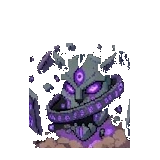
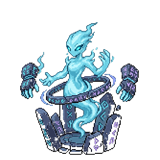
feat(pokemon): [AGY-033] redesign Runolithe and Ragnarune with Direction A (Spectral Stone Guardian & Celestial Titan)

diff --git a/CHANGELOG.md b/CHANGELOG.md
@@ -16,6 +16,31 @@ En cas de bug plus tard, ce journal permet d'identifier immédiatement **quel fi
 
 ## 📅 Historique des Ajouts & Modifications
 
+### `[AGY-033]` — 2026-10-16 — Refonte Visuelle Complète des Évolutions de Veilliris (Direction A : Gardien Spectral Runique)
+- **Auteur** : `Antigravity`
+- **Catégorie** : Sprites Pokémon Combat 5G (`Graphics/Pokemon/`)
+- **Fichiers modifiés / remplacés** :
+  - **Runolithe (`[RUNOLITHE]`, Stade 2 — Psy / Sol)** :
+    - Remplacement de l'ancien modèle de roche compacte par le design **Direction A** : Esprit spectral cyan élancé et gracieux émergeant d'un cercle de mégalithes, avec anneau d'orbes/runes orbitales et gantelets de pierre taillée.
+    - `Graphics/Pokemon/Front/RUNOLITHE.png` & `Front shiny/RUNOLITHE.png` (`160×160 px`).
+    - `Graphics/Pokemon/Back/RUNOLITHE.png` & `Back shiny/RUNOLITHE.png` (`160×160 px`, perspective dorsale 180°).
+    - `Graphics/Pokemon/Icons/RUNOLITHE.png` & `Icons shiny/RUNOLITHE.png` (`128×64 px`).
+    - `Graphics/Pokemon/Footprints/RUNOLITHE.png` (`16×16 px`).
+  - **Ragnarune (`[RAGNARUNE]`, Stade 3 — Psy / Sol)** :
+    - Remplacement du golem massif par le design **Direction A** : Titan céleste/spectral de Freljord aux immenses ailes de flammes cyan, plastron d'obsidienne gravée, couronne royale et gantelets mégalithiques flottants crépitants d'aura magique.
+    - `Graphics/Pokemon/Front/RAGNARUNE.png` & `Front shiny/RAGNARUNE.png` (`160×160 px`).
+    - `Graphics/Pokemon/Back/RAGNARUNE.png` & `Back shiny/RAGNARUNE.png` (`160×160 px`, perspective dorsale 180°).
+    - `Graphics/Pokemon/Icons/RAGNARUNE.png` & `Icons shiny/RAGNARUNE.png` (`128×64 px`).
+    - `Graphics/Pokemon/Footprints/RAGNARUNE.png` (`16×16 px`).
+- **Aperçu de validation (Dossier d'artefacts)** :
+  - `apercu_final_direction_a_integree.png` (Tableau 12 sprites de la lignée complète Veilliris -> Runolithe -> Ragnarune sur damier transparent).
+- **Comment tester en jeu** :
+  - Lancer en Debug (`F9`) -> Menu Pokémon -> Donner Pokémon (`RUNOLITHE`, `RAGNARUNE`) pour observer les nouveaux sprites de face, de dos et shiny en combat.
+- **Comment désactiver en cas de bug** :
+  - `git revert HEAD`
+
+---
+
 ### `[AGY-032]` — 2026-10-16 — Déploiement Intégral des 3 Lignées de Starters de Bourg-Givré (9 Pokémon & 63 Sprites In-Game)
 - **Auteur** : `Antigravity`
 - **Catégorie** : Pokémon Starters / Sprites Combat 5G (`Graphics/Pokemon/`) & Données PBS (`PBS/pokemon.txt`, `PBS/pokemon_metrics.txt`)
